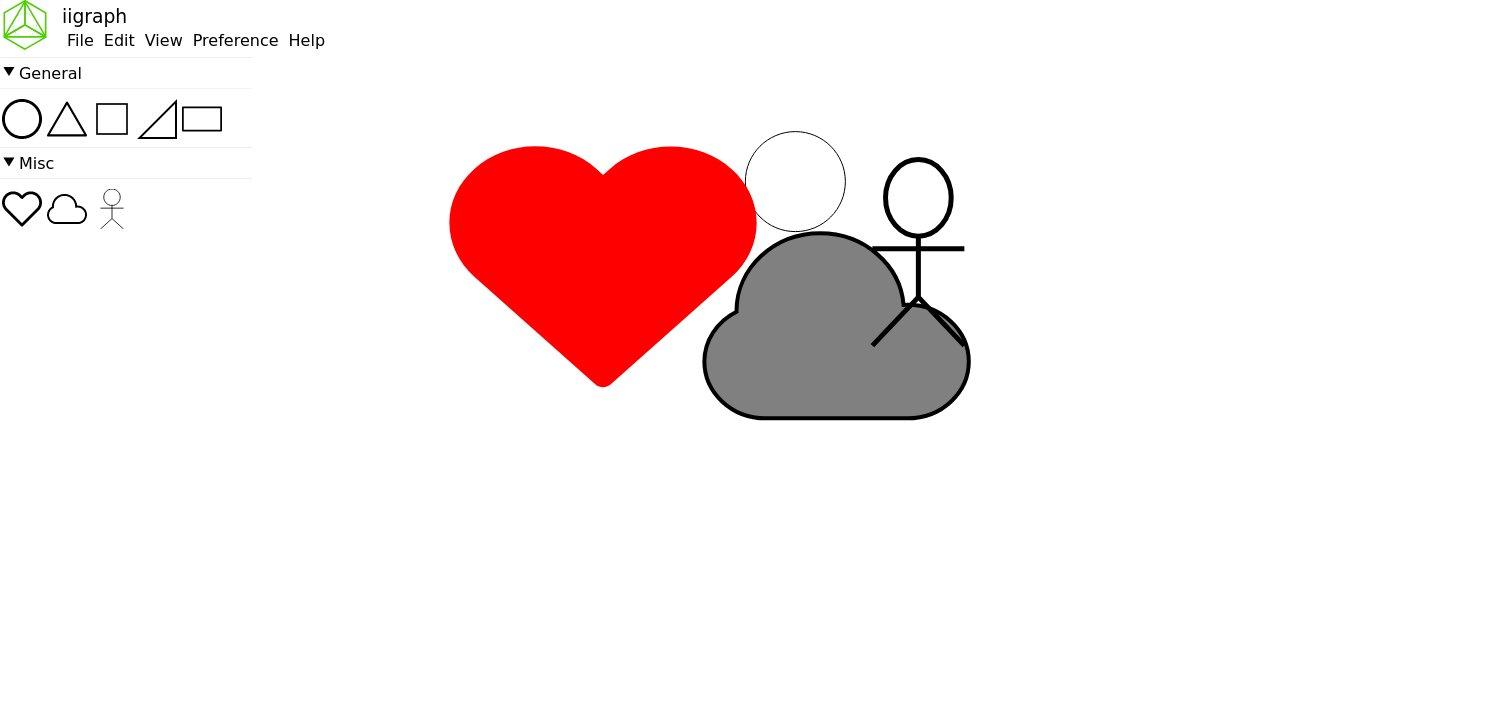
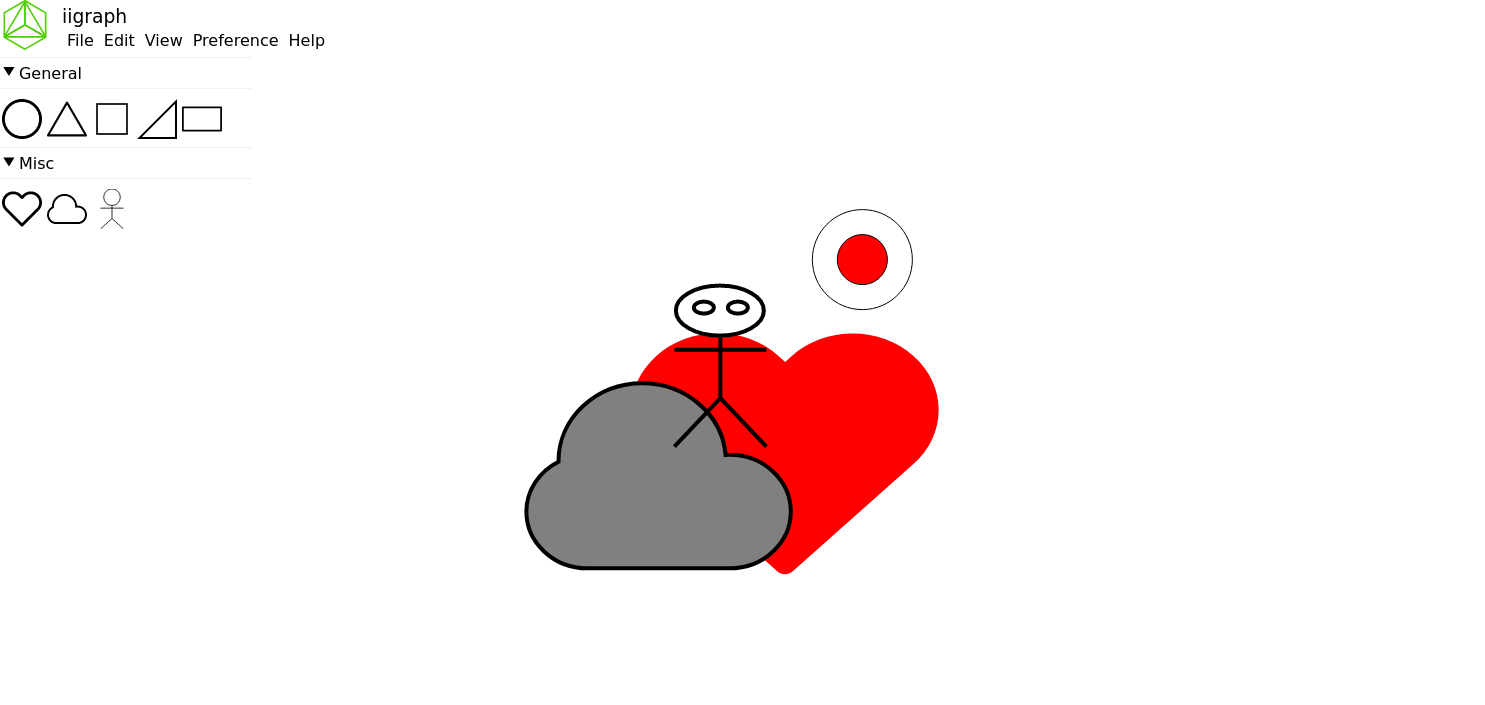
It is now possible to compose a shape using multiple path

Changed region(s): [[0.2788, 0.1872, 0.6815, 0.8113]]

diff --git a/src/lib/Shapes/Human.js b/src/lib/Shapes/Human.js
@@ -4,9 +4,12 @@ class Human extends Path{
         this.createHuman();
     }
     createHuman(){
-        this.addPath("M477,160.27196051349875m-32.85714285714287,0a32.85714285714287,38.271512526507216,0,1,0,65.71428571428574,0a32.85714285714287,38.271512526507216,0,1,0,-65.71428571428574,0M477,198.92618816527073L477,259.5253010997427M477,211.04294903116312L431,211.04294903116312M477,211.04294903116312L523,211.04294903116312M477,259.5253010997427L431,307.99999886581634M477,259.5253010997427L523,307.99999886581634");
+        this.addPath("M 476, 147 a 44,25 0 1,0 1,0 z");
+        this.addPath("M 460, 163 a 10,6 0 1,0 1,0 z");
+        this.addPath("M 494, 163 a 10,6 0 1,0 1,0 z");
         this.fill("white");
+        this.addPath("M477,198.92618816527073L477,259.5253010997427M477,211.04294903116312L431,211.04294903116312M477,211.04294903116312L523,211.04294903116312M477,259.5253010997427L431,307.99999886581634M477,259.5253010997427L523,307.99999886581634");
         this.stroke("black")
-        this.strokeWidth(5);
+        this.strokeWidth(4);
     }
 }

diff --git a/src/lib/Path.js b/src/lib/Path.js
@@ -182,12 +182,14 @@ class Path{
     scaleAll(dx,dy,handle){
         let ref=this;
         let allD=[];
+        let willUpdate=true;
         this.path.map(function(shape){
             let d=shape.getAttribute("d");
             let sd=ref.scale(dx,dy,d,handle);
+            if(sd==false || !willUpdate) {willUpdate=false;return;}
             allD.push(sd);
         });
-        ref.updatePath(allD);
+        if(willUpdate) ref.updatePath(allD);
     }
     /**
      * scale method will scale a path provided by d parameter.
@@ -272,7 +274,7 @@ class Path{
         }
         let pathData=this.move(dx,dy,segs);
         let pch=this.createPlaceholder(pathData).getBBox();
-        if(pch.width<30||pch.height<30) return d;
+        if(pch.width<3||pch.height<3) return false;
         return pathData;
     }
     

diff --git a/src/lib/Shapes/Circle.js b/src/lib/Shapes/Circle.js
@@ -12,7 +12,10 @@ class Circle extends Path{
         let R=50;
         let cmd=this.circlePath(cx,cy,50);
         this.addPath(cmd);
-        this.fill("white");
+        this.fill("white",0);
+        cmd=this.circlePath(cx,cy,25);
+        this.addPath(cmd);
+        this.fill("red",1);
         this.stroke("black");
     }
     /**
